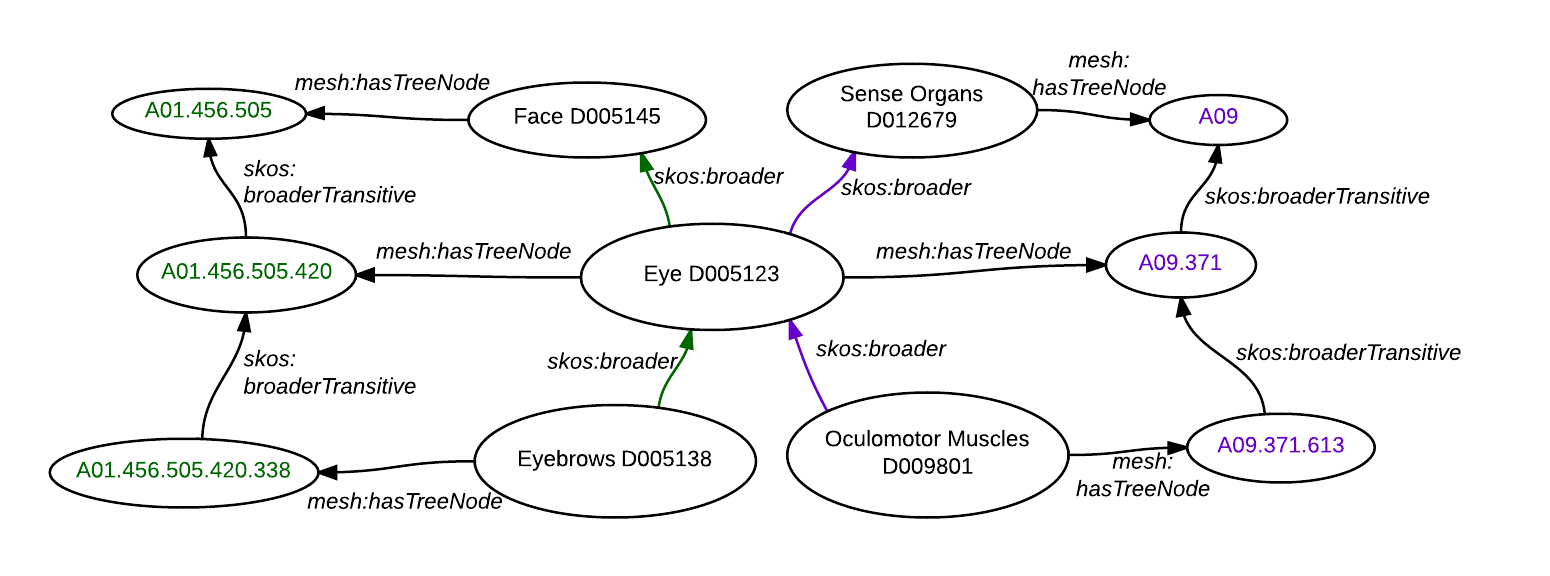
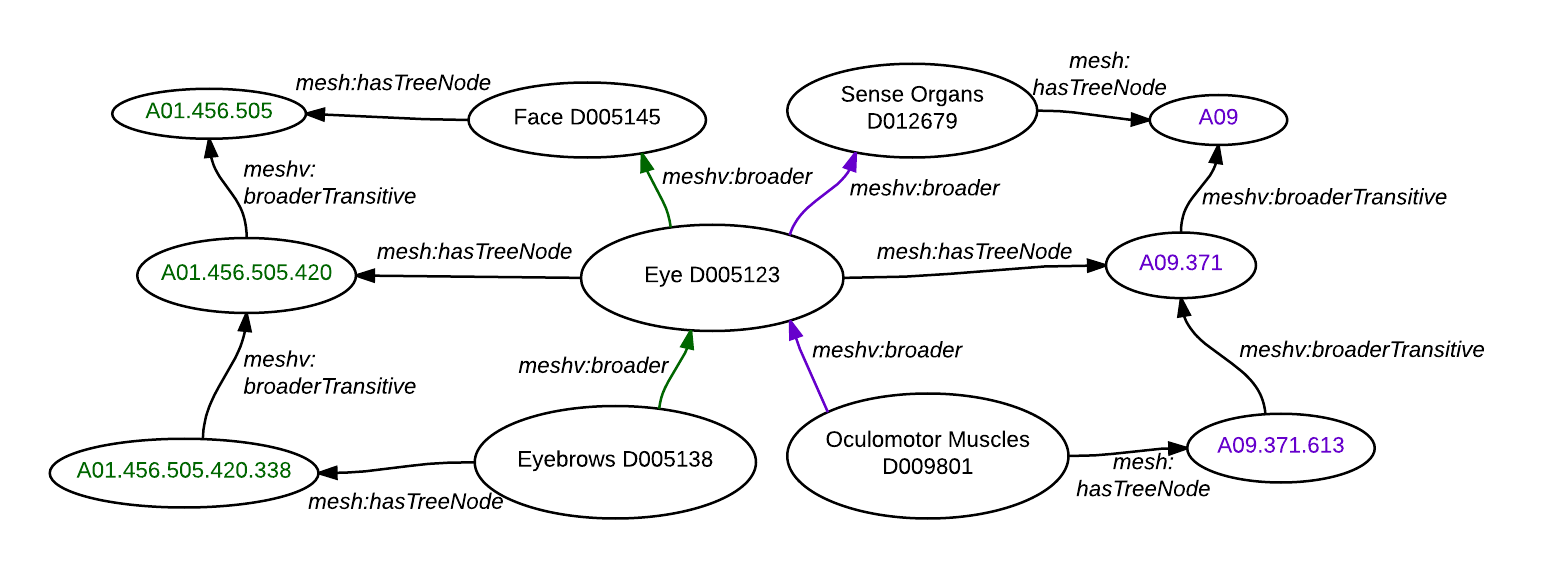
skos -> meshv

diff --git a/tree-numbers.md b/tree-numbers.md
@@ -10,7 +10,7 @@ categories:
 
 The following diagram illustrates the problem of tree numbers, that impose multiple
 overlapping hierarchical relationships between descriptors. In the diagram, every
-arrow indicates a skos:broader relationship.
+arrow indicates a meshv:broader relationship.
 
 In this particular example, "Eye" belongs to two overlapping trees -- one that is
 depicted in green and one in purple.
@@ -30,8 +30,8 @@ were transitive, then one could conclude that "Eyebrows" has broader concept "Se
 "Oculomotor Muscles" has broader concept "Face", but neither of those is true according to the MeSH trees.
 
 The way that this is modeled in MeSH RDF is illustrated in the following graph.  Each tree number
-is reified as a first-class resource.  `skos:broader` relations (which are not transitive) are asserted
-between the `Descriptor`s, and `skos:broaderTransitive` relations (which, obviously, are) are asserted
+is reified as a first-class resource.  `meshv:broader` relations (which are not transitive) are asserted
+between the `Descriptor`s, and `meshv:broaderTransitive` relations (which, obviously, are) are asserted
 between the `TreeNumber`s.
 
 ![Tree Numbers RDF Graph Model](images/BroaderRelationsWithTreeNodes.png){: class="rdf-graph"}
@@ -44,7 +44,7 @@ she could do so, using the SPARQL transitivity operator ("+"), with the followin
 select ?ancestor
 where {
     mesh:D005138 mesh:hasTreeNode ?treeNode .
-    ?treeNode skos:broaderTransitive+ ?ancestorTreeNode .
+    ?treeNode meshv:broaderTransitive+ ?ancestorTreeNode .
     ?ancestor mesh:hasTreeNode ?ancestorTreeNode
 }
 ```
@@ -67,7 +67,7 @@ where {
 Subject | Predicate | Object
 ------- | --------- | -------
 meshv:TreeNumber | rdf:type | meshv:TreeNumber
-meshv:TreeNumber | skos:broaderTransitive | meshv:TreeNumber
+meshv:TreeNumber | meshv:broaderTransitive | meshv:TreeNumber
 
 
 </div>
@@ -82,7 +82,7 @@ meshv:allowedTreeNode | meshv:Qualifier | meshv:TreeNumber
 meshv:treeNumber | meshv:TopicalDescriptor | meshv:TreeNumber
 meshv:treeNumber | meshv:Descriptor | meshv:TreeNumber
 meshv:treeNumber | meshv:Qualifier | meshv:TreeNumber
-skos:broaderTransitive | meshv:TreeNumber | meshv:TreeNumber
+meshv:broaderTransitive | meshv:TreeNumber | meshv:TreeNumber
 meshv:treeNumber | meshv:GeographicalDescriptor | meshv:TreeNumber
 meshv:treeNumber | meshv:PublicationType | meshv:TreeNumber
 
@@ -117,13 +117,13 @@ where {
            ?broader_tree_number ?broader_descriptor
            ?narrower_tree_number ?narrower_descriptor
     where {
-      ?tree_number skos:broaderTransitive ?broader_tree_number .
+      ?tree_number meshv:broaderTransitive ?broader_tree_number .
       ?broader_descriptor meshv:treeNumber ?broader_tree_number .
-      mesh:D005123 skos:broader ?broader_descriptor .
+      mesh:D005123 meshv:broader ?broader_descriptor .
 
-      ?narrower_tree_number skos:broaderTransitive ?tree_number .
+      ?narrower_tree_number meshv:broaderTransitive ?tree_number .
       ?narrower_descriptor meshv:treeNumber ?narrower_tree_number .
-      ?narrower_descriptor skos:broader mesh:D005123 .
+      ?narrower_descriptor meshv:broader mesh:D005123 .
     }
   }
 }
@@ -138,13 +138,13 @@ PREFIX meshv: <http://id.nlm.nih.gov/mesh/vocab#>
 
 CONSTRUCT {
   mesh:D005123 meshv:treeNumber ?tree_number .
-  ?tree_number skos:broaderTransitive ?broader_tree_number .
+  ?tree_number meshv:broaderTransitive ?broader_tree_number .
   ?broader_descriptor meshv:treeNumber ?broader_tree_number .
-  mesh:D005123 skos:broader ?broader_descriptor .
+  mesh:D005123 meshv:broader ?broader_descriptor .
 
-  ?narrower_tree_number skos:broaderTransitive ?tree_number .
+  ?narrower_tree_number meshv:broaderTransitive ?tree_number .
   ?narrower_descriptor meshv:treeNumber ?narrower_tree_number .
-  ?narrower_descriptor skos:broader mesh:D005123 .
+  ?narrower_descriptor meshv:broader mesh:D005123 .
 }
 from <http://id.nlm.nih.gov/mesh2014>
 where {
@@ -155,13 +155,13 @@ where {
            ?broader_tree_number ?broader_descriptor
            ?narrower_tree_number ?narrower_descriptor
     where {
-      ?tree_number skos:broaderTransitive ?broader_tree_number .
+      ?tree_number meshv:broaderTransitive ?broader_tree_number .
       ?broader_descriptor meshv:treeNumber ?broader_tree_number .
-      mesh:D005123 skos:broader ?broader_descriptor .
+      mesh:D005123 meshv:broader ?broader_descriptor .
 
-      ?narrower_tree_number skos:broaderTransitive ?tree_number .
+      ?narrower_tree_number meshv:broaderTransitive ?tree_number .
       ?narrower_descriptor meshv:treeNumber ?narrower_tree_number .
-      ?narrower_descriptor skos:broader mesh:D005123 .
+      ?narrower_descriptor meshv:broader mesh:D005123 .
     }
   }
 }
@@ -170,34 +170,33 @@ where {
 ### MeSH RDF
 
 ```
-@prefix skos: <http://www.w3.org/2004/02/skos/core#> .
 @prefix mesh: <http://id.nlm.nih.gov/mesh/> .
 @prefix meshv:  <http://id.nlm.nih.gov/mesh/vocab#> .
 
 # Eye
-mesh:D005123 skos:broader mesh:D005145, mesh:D012679 ;
+mesh:D005123 meshv:broader mesh:D005145, mesh:D012679 ;
              meshv:treeNumber mesh:A09.371 ,
                               mesh:A01.456.505.420 .
 
 # Eyebrows
-mesh:D005138 skos:broader mesh:D005123 ;
+mesh:D005138 meshv:broader mesh:D005123 ;
              meshv:treeNumber mesh:A01.456.505.420.338 .
 
 # Face
 mesh:D005145 meshv:treeNumber mesh:A01.456.505 .
 
 # Oculomotor Muscles
-mesh:D009801 skos:broader mesh:D005123 ;
+mesh:D009801 meshv:broader mesh:D005123 ;
              meshv:treeNumber mesh:A09.371.613 .
 
 # Sense Organs
 mesh:D012679 meshv:treeNumber  mesh:A09 .
 
 # Relations among TreeNumbers
-mesh:A01.456.505.420  skos:broaderTransitive  mesh:A01.456.505 .
-mesh:A09.371  skos:broaderTransitive  mesh:A09 .
-mesh:A01.456.505.420.338  skos:broaderTransitive  mesh:A01.456.505.420 .
-mesh:A09.371.613  skos:broaderTransitive  mesh:A09.371 .
+mesh:A01.456.505.420  meshv:broaderTransitive  mesh:A01.456.505 .
+mesh:A09.371  meshv:broaderTransitive  mesh:A09 .
+mesh:A01.456.505.420.338  meshv:broaderTransitive  mesh:A01.456.505.420 .
+mesh:A09.371.613  meshv:broaderTransitive  mesh:A09.371 .
 ```
 
 ### MeSH XML

diff --git a/terms2.md b/terms2.md
@@ -79,8 +79,8 @@ mesh:M0353609 rdf:type  meshv:Concept ;
 mesh:T000001  rdf:type  meshv:Term ;
               meshv:lexicalTag  "LAB" ;
               rdfs:label  "A-23187" ;
-              skos:prefLabel  "A-23187" ;
-              skos:altLabel "A 23187" .
+              meshv:prefLabel  "A-23187" ;
+              meshv:altLabel "A 23187" .
               dcterms:identifier  "T000001" ;
               meshv:dateCreated "1990-03-08"^^xsd:date ;
               meshv:thesaurusID "NLM (1991)" ;
@@ -88,8 +88,8 @@ mesh:T000001  rdf:type  meshv:Term ;
 mesh:T000003  rdf:type  meshv:Term ;
               meshv:lexicalTag  "NON" ;
               rdfs:label  "Antibiotic A23187" ;
-              skos:prefLabel  "Antibiotic A23187" ;
-              skos:altLabel "A23187, Antibiotic" .
+              meshv:prefLabel  "Antibiotic A23187" ;
+              meshv:altLabel "A23187, Antibiotic" .
               dcterms:identifier  "T000003" ;
               ...
 ...
